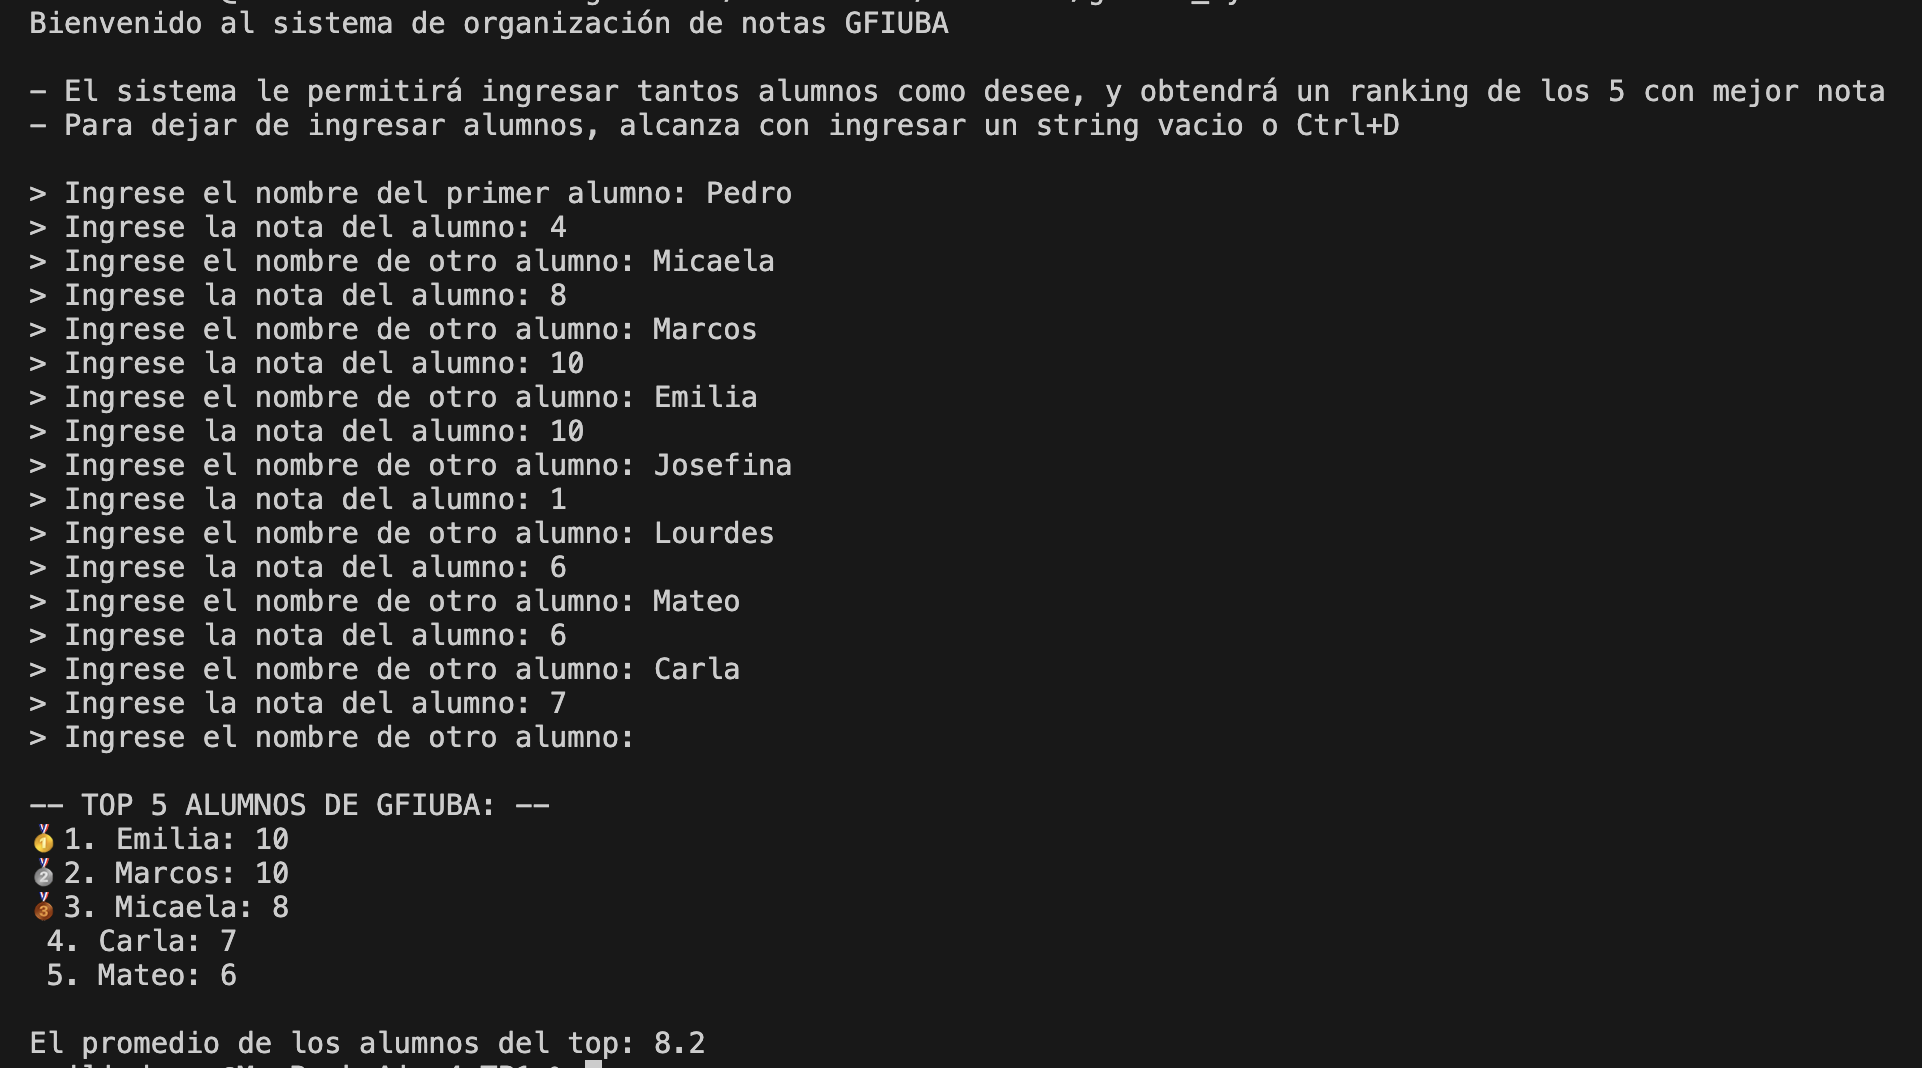
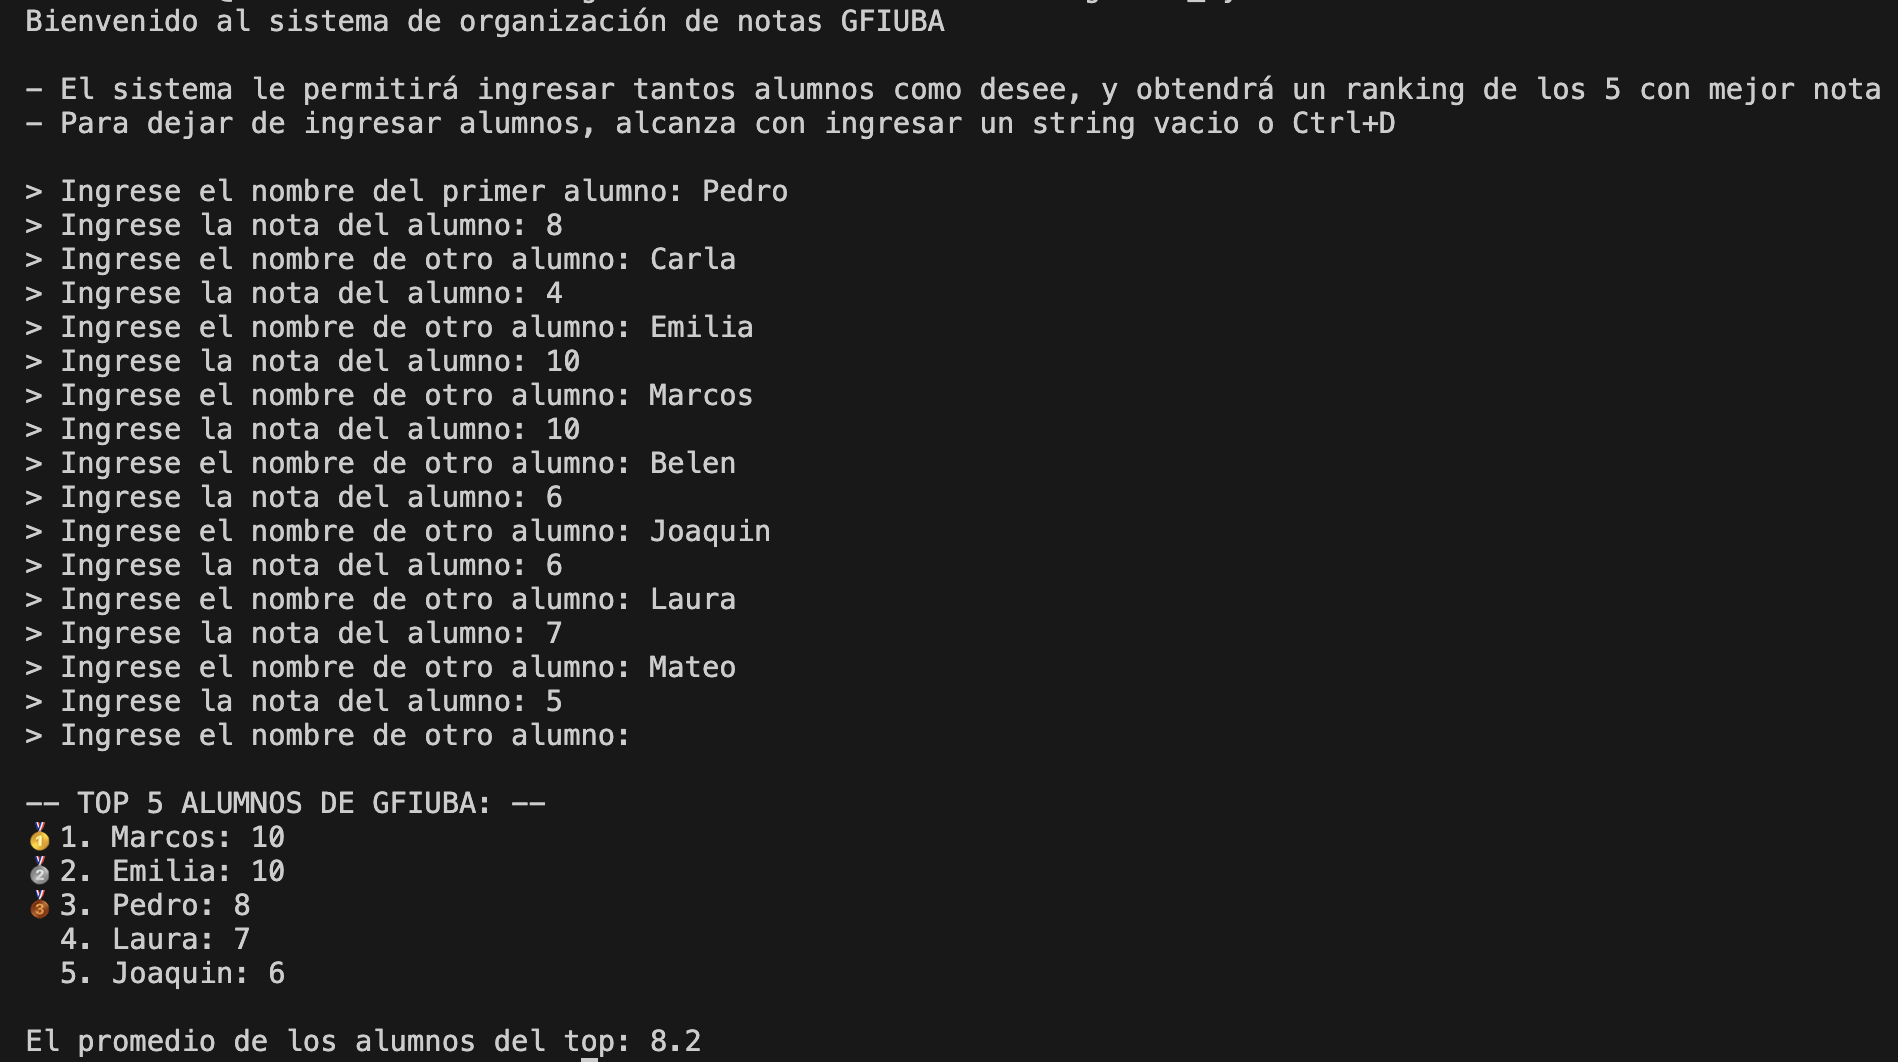
refactor: change use case and add spaces for puesto 4 and 5

diff --git a/real-use/uso_real.md b/real-use/uso_real.md
@@ -58,4 +58,4 @@ Todo esto puede encontrarse en [`gfiuba_system.lox`](gfiuba_system.lox)
 
 **Ejemplo de uso**
 
-<img src="ejemplo-uso-gfiuba.png" alt="ejemplo de uso del sistema gfiuba" width="600">
+![ejemplo de uso del sistema gfiuba](ejemplo-uso-gfiuba.png)
